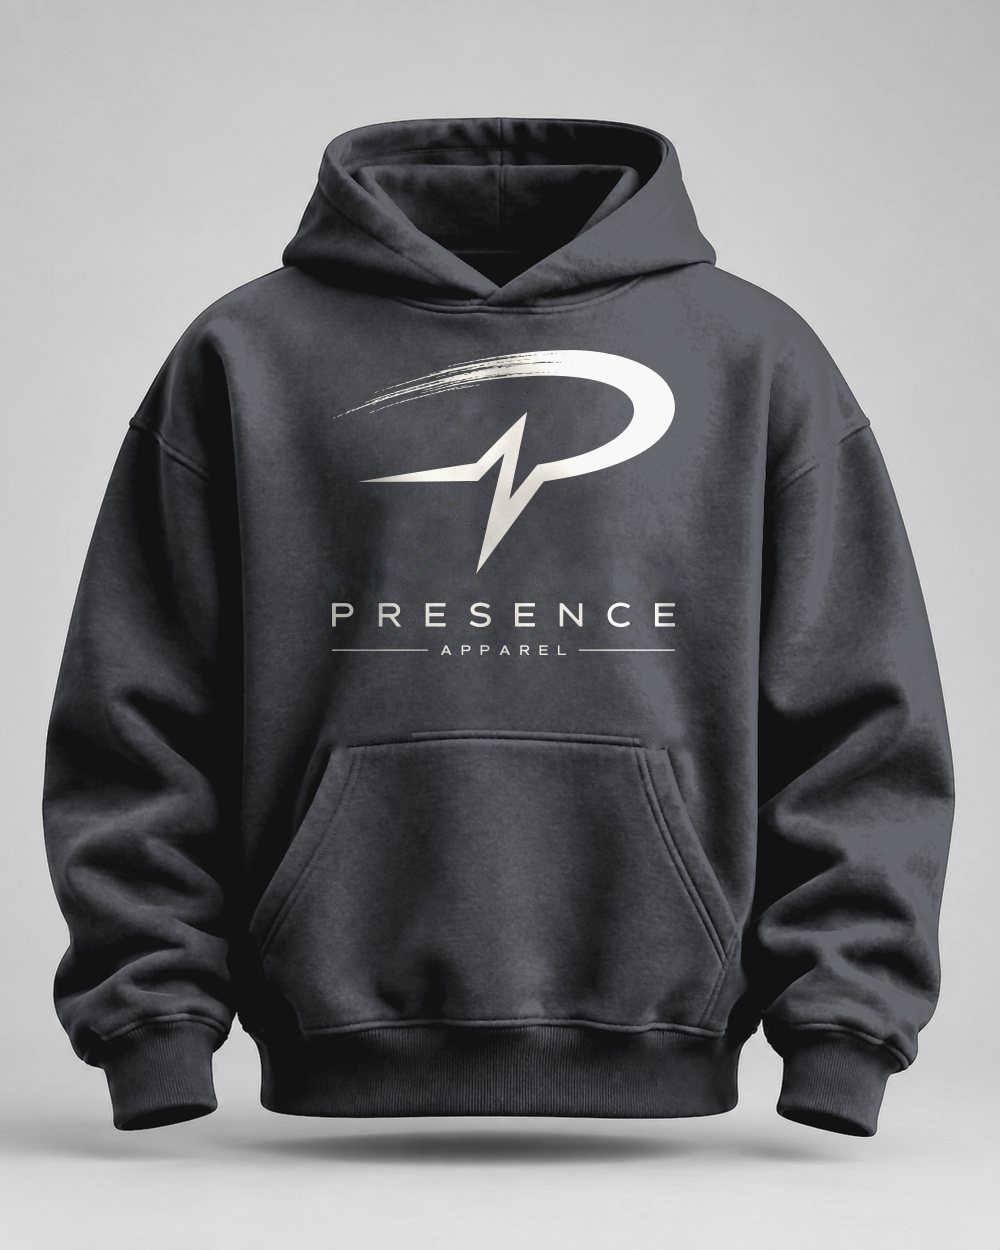
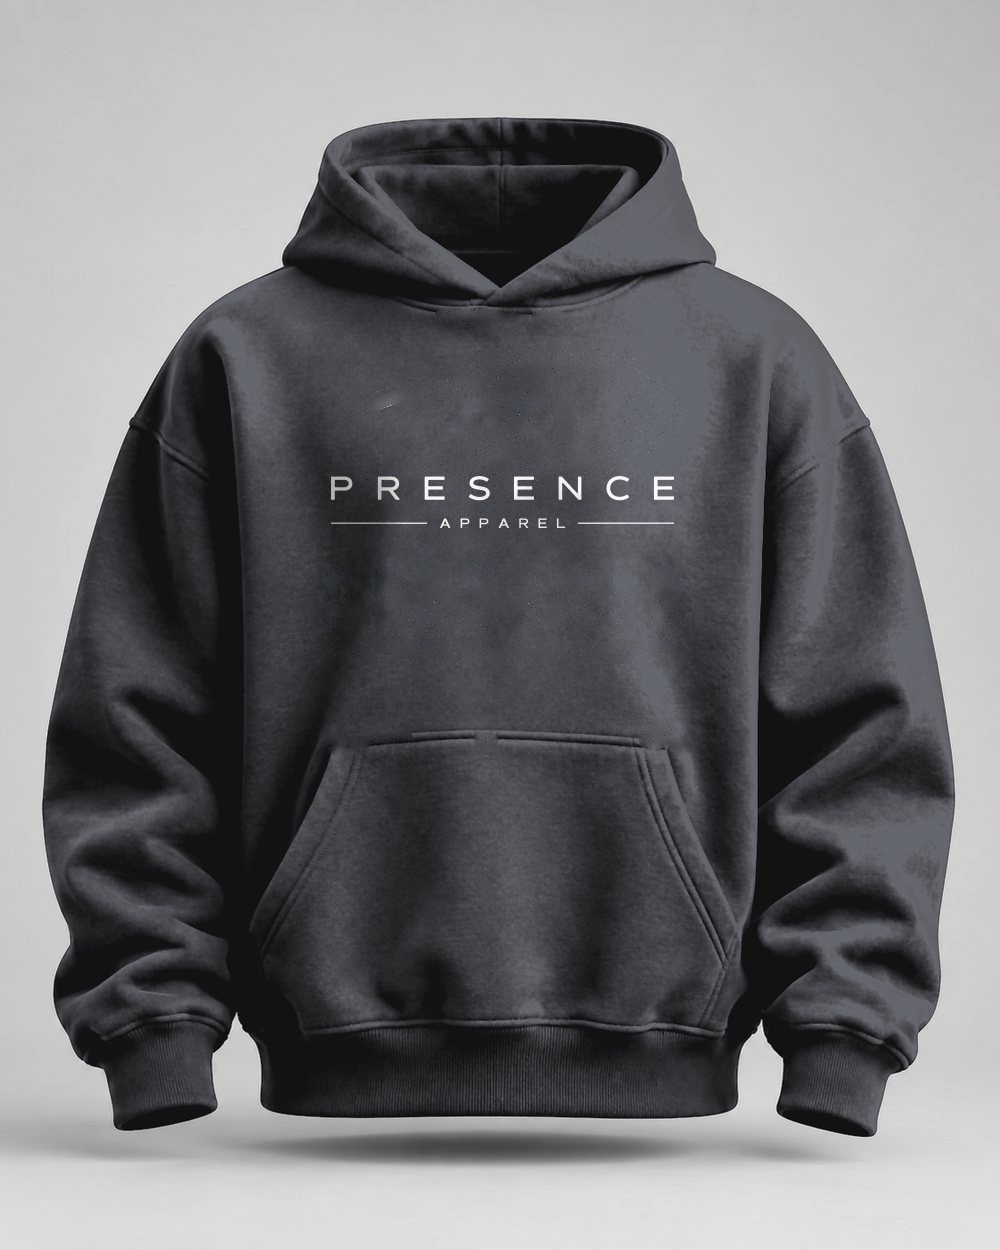
Hoodie: PRESENCE wordmark on the front, brush P on the back (#11)
Claude-Session: https://claude.ai/code/session_01UpSBNCY4cJQGqizhMA1FYq

diff --git a/index.html b/index.html
@@ -739,7 +739,7 @@ header.scrolled{box-shadow:0 10px 30px rgba(0,0,0,.35)}
   </div></section>
   <div class="split">
     <div class="txt"><p class="eyebrow">The mark</p><h2>Why the P moves.</h2><p>One brush stroke that sweeps around and snaps into a pulse. That jolt is the moment you switch off autopilot and come back to now. Simple enough to wear every day, sharp enough that people ask about it.</p></div>
-    <div class="img"><img src="img/hoodie.jpg" alt="The brush-stroke P on the Presence Hoodie"></div>
+    <div class="img"><img src="img/back.jpg" alt="The brush-stroke P across the back of the Presence Hoodie"></div>
   </div>
   </div>
 </template>
@@ -858,7 +858,7 @@ function cset(pre,keys,first){return keys.map(c=>{const key=c==="last"?"bone":c;
 const ALT={hoodie:"back",tee:"tee",dadhat:"l_teecap"};
 const PRODUCTS=[
   {id:"hoodie",cat:"Hoodies",chart:"hoodie",name:"Presence Hoodie",price:79,img:"p_hoodie",gallery:["back","l_hood9"],colours:cset("hv",["black","navy","olive","sand","heather"],"p_hoodie"),sizes:["S","M","L","XL","2XL","3XL"],
-   desc:"The full Presence mark on the chest of a midweight fleece hoodie. For game nights, late drives and the nights you'll be talking about for years.",
+   desc:"PRESENCE across the chest, the brush-stroke P big on the back. Midweight fleece for game nights, late drives and the nights you'll be talking about for years.",
    details:["Midweight fleece, 50% cotton / 50% polyester (Heather Grey: 90% cotton / 10% polyester)","Double-lined hood, front pouch pocket","Unisex fit, size up for a relaxed look","Machine wash cold, inside out"]},
   {id:"tee",cat:"Tees",chart:"tee",name:"Presence Tee",price:39,img:"tee2",gallery:["tb_black","tee"],colours:["black","navy","olive","heather","bone"].map(c=>({key:c,name:SW[c][0],hex:SW[c][1],img:c==="black"?"tee2":"tc_"+c,gallery:c==="black"?null:["tb_"+(c==="bone"?"last":c)]})),sizes:["S","M","L","XL","2XL"],
    desc:"Soft, lightweight everyday tee carrying the full Presence mark. The kind you reach for first, with a reminder built in.",
